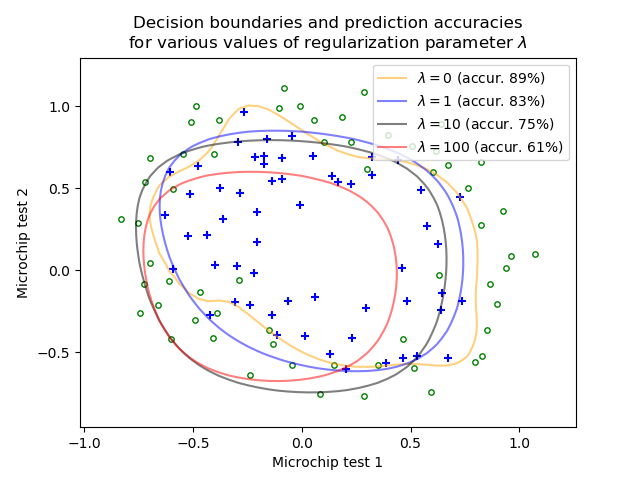
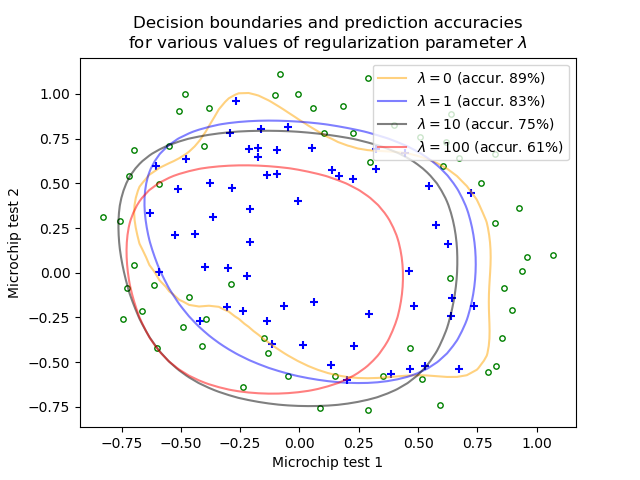
ex2: Graphics margins made smaller

diff --git a/ex2/ex2.py b/ex2/ex2.py
@@ -32,12 +32,13 @@ def plotData(X, y, label1=None, label2=None):
 
 
 def plotDecisionBoundary(X, y, theta, color="blue", label="Decision boundary"):
+    margin_quotient = 0.05
     X1_min = np.min(X[:,0])
     X1_max = np.max(X[:,0])
-    X1_margin = (X1_max - X1_min) * 0.1
+    X1_margin = (X1_max - X1_min) * margin_quotient
     X2_min = np.min(X[:,1])
     X2_max = np.max(X[:,1])
-    X2_margin = (X2_max - X2_min) * 0.1
+    X2_margin = (X2_max - X2_min) * margin_quotient
     if theta.shape[0] == 3:
         #plot_x = np.array([np.min(X[:,0])-1, np.max(X[:,0])+1])
         plot_x = np.array([X1_min-X1_margin, X1_max+X1_margin])
@@ -140,10 +141,15 @@ def plotModel(X, y, theta, label1=None, label2=None):
     assert np.shape(X)[1] == 2
     X1 = X[:,0]
     X2 = X[:,1]
-    X1_cover = [np.min(X1), np.max(X1)]
-    X2_cover = [np.min(X2), np.max(X2)]
-    X1_vals = np.linspace(X1_cover[0]-2, X1_cover[1]+2, 101)
-    X2_vals = np.linspace(X2_cover[0]-2, X2_cover[1]+2, 101)
+    margin_quotient = 0.05
+    X1_min = np.min(X1)
+    X1_max = np.max(X1)
+    X1_margin = (X1_max - X1_min) * margin_quotient
+    X2_min = np.min(X2)
+    X2_max = np.max(X2)
+    X2_margin = (X2_max - X2_min) * margin_quotient
+    X1_vals = np.linspace(X1_min-X1_margin, X1_max+X1_margin, 101)
+    X2_vals = np.linspace(X2_min-X2_margin, X2_max+X2_margin, 101)
     h_vals = zeros((len(X1_vals), len(X2_vals)))
     degree = get_mapFeature_degree(np.shape(theta)[0])
     for i, x1 in enumerate(X1_vals):
@@ -326,7 +332,7 @@ if __name__ == "__main__":
     cost_min2 = thetas[1]["cost_min"]
     plt.xlabel("Microchip test 1")
     plt.ylabel("Microchip test 2")
-    plt.legend(handles=legend_handles)
+    plt.legend(handles=legend_handles, loc="upper right")
     plt.title("Decision boundaries and prediction accuracies\n"
               "for various values of regularization parameter $\\lambda$")
 
